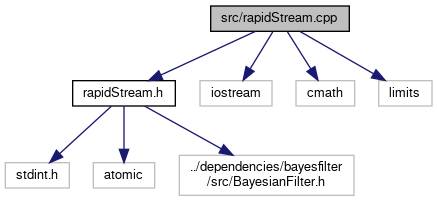
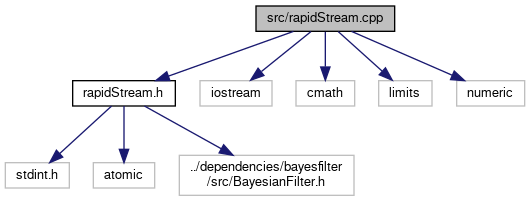
deploy: 6c8deb8d3dfbfbcd0ec96fbf341db7a697e9434a

diff --git a/doxygen/rapid_stream_8h_source.html b/doxygen/rapid_stream_8h_source.html
@@ -156,7 +156,7 @@ $(document).ready(function(){initNavTree('rapid_stream_8h_source.html',''); init
 <div class="line"><a name="l00117"></a><span class="lineno">  117</span>&#160;    <span class="keyword">private</span>:</div>
 <div class="line"><a name="l00118"></a><span class="lineno">  118</span>&#160;        std::size_t windowSize;</div>
 <div class="line"><a name="l00119"></a><span class="lineno">  119</span>&#160;        std::atomic&lt;uint32_t&gt; windowIndex;</div>
-<div class="line"><a name="l00120"></a><span class="lineno">  120</span>&#160;        T* circularWindow;</div>
+<div class="line"><a name="l00120"></a><span class="lineno">  120</span>&#160;        std::vector&lt;T&gt; circularWindow;</div>
 <div class="line"><a name="l00121"></a><span class="lineno">  121</span>&#160; </div>
 <div class="line"><a name="l00122"></a><span class="lineno">  122</span>&#160;        <span class="keyword">inline</span> T calcCurrentVel(std::size_t i) <span class="keyword">const</span>;</div>
 <div class="line"><a name="l00123"></a><span class="lineno">  123</span>&#160; </div>
@@ -166,27 +166,27 @@ $(document).ready(function(){initNavTree('rapid_stream_8h_source.html',''); init
 <div class="line"><a name="l00127"></a><span class="lineno">  127</span>&#160; </div>
 <div class="line"><a name="l00128"></a><span class="lineno">  128</span>&#160;<span class="preprocessor">#endif</span></div>
 <div class="ttc" id="aclassrapid_lib_1_1rapid_stream_html"><div class="ttname"><a href="classrapid_lib_1_1rapid_stream.html">rapidLib::rapidStream</a></div><div class="ttdef"><b>Definition:</b> rapidStream.h:19</div></div>
-<div class="ttc" id="aclassrapid_lib_1_1rapid_stream_html_a1314fcf8a2d951f53f24228c11bf20cc"><div class="ttname"><a href="classrapid_lib_1_1rapid_stream.html#a1314fcf8a2d951f53f24228c11bf20cc">rapidLib::rapidStream::bayesSetMVC</a></div><div class="ttdeci">void bayesSetMVC(float mvc)</div><div class="ttdef"><b>Definition:</b> rapidStream.cpp:187</div></div>
-<div class="ttc" id="aclassrapid_lib_1_1rapid_stream_html_a168d36a6be751bbea0ab04654cbf4a17"><div class="ttname"><a href="classrapid_lib_1_1rapid_stream.html#a168d36a6be751bbea0ab04654cbf4a17">rapidLib::rapidStream::standardDeviation</a></div><div class="ttdeci">T standardDeviation() const</div><div class="ttdef"><b>Definition:</b> rapidStream.cpp:148</div></div>
-<div class="ttc" id="aclassrapid_lib_1_1rapid_stream_html_a1afdf21bc14ea95992fff5fe42046099"><div class="ttname"><a href="classrapid_lib_1_1rapid_stream.html#a1afdf21bc14ea95992fff5fe42046099">rapidLib::rapidStream::maxVelocity</a></div><div class="ttdeci">T maxVelocity() const</div><div class="ttdef"><b>Definition:</b> rapidStream.cpp:206</div></div>
-<div class="ttc" id="aclassrapid_lib_1_1rapid_stream_html_a49cc904266a17c8a37105ed2421f0c25"><div class="ttname"><a href="classrapid_lib_1_1rapid_stream.html#a49cc904266a17c8a37105ed2421f0c25">rapidLib::rapidStream::maximum</a></div><div class="ttdeci">T maximum() const</div><div class="ttdef"><b>Definition:</b> rapidStream.cpp:93</div></div>
-<div class="ttc" id="aclassrapid_lib_1_1rapid_stream_html_a4a3b349dfe6860025bf9aae72668d1bd"><div class="ttname"><a href="classrapid_lib_1_1rapid_stream.html#a4a3b349dfe6860025bf9aae72668d1bd">rapidLib::rapidStream::minimum</a></div><div class="ttdeci">T minimum() const</div><div class="ttdef"><b>Definition:</b> rapidStream.cpp:82</div></div>
-<div class="ttc" id="aclassrapid_lib_1_1rapid_stream_html_a5a69135cbea2fb81dd5d695874b266f1"><div class="ttname"><a href="classrapid_lib_1_1rapid_stream.html#a5a69135cbea2fb81dd5d695874b266f1">rapidLib::rapidStream::clear</a></div><div class="ttdeci">void clear()</div><div class="ttdef"><b>Definition:</b> rapidStream.cpp:52</div></div>
-<div class="ttc" id="aclassrapid_lib_1_1rapid_stream_html_a5d82289a80e6081ca7c92ce718ca5d15"><div class="ttname"><a href="classrapid_lib_1_1rapid_stream.html#a5d82289a80e6081ca7c92ce718ca5d15">rapidLib::rapidStream::rms</a></div><div class="ttdeci">T rms() const</div><div class="ttdef"><b>Definition:</b> rapidStream.cpp:158</div></div>
-<div class="ttc" id="aclassrapid_lib_1_1rapid_stream_html_a5e3cb4ab7bfc6569a303eeaf784fff83"><div class="ttname"><a href="classrapid_lib_1_1rapid_stream.html#a5e3cb4ab7bfc6569a303eeaf784fff83">rapidLib::rapidStream::numZeroCrossings</a></div><div class="ttdeci">uint32_t numZeroCrossings() const</div><div class="ttdef"><b>Definition:</b> rapidStream.cpp:104</div></div>
-<div class="ttc" id="aclassrapid_lib_1_1rapid_stream_html_a60ef4b2f5d8201a282c2b01ab429a900"><div class="ttname"><a href="classrapid_lib_1_1rapid_stream.html#a60ef4b2f5d8201a282c2b01ab429a900">rapidLib::rapidStream::bayesSetJumpRate</a></div><div class="ttdeci">void bayesSetJumpRate(float jump_rate)</div><div class="ttdef"><b>Definition:</b> rapidStream.cpp:181</div></div>
-<div class="ttc" id="aclassrapid_lib_1_1rapid_stream_html_a6283a06463ff72ce29425b1f8c365526"><div class="ttname"><a href="classrapid_lib_1_1rapid_stream.html#a6283a06463ff72ce29425b1f8c365526">rapidLib::rapidStream::sum</a></div><div class="ttdeci">T sum() const</div><div class="ttdef"><b>Definition:</b> rapidStream.cpp:134</div></div>
-<div class="ttc" id="aclassrapid_lib_1_1rapid_stream_html_a6546c143d98f324f8816510bc6001b33"><div class="ttname"><a href="classrapid_lib_1_1rapid_stream.html#a6546c143d98f324f8816510bc6001b33">rapidLib::rapidStream::maxAcceleration</a></div><div class="ttdeci">T maxAcceleration() const</div><div class="ttdef"><b>Definition:</b> rapidStream.cpp:233</div></div>
-<div class="ttc" id="aclassrapid_lib_1_1rapid_stream_html_a7a1506141baaae7dd61dae53785f0a61"><div class="ttname"><a href="classrapid_lib_1_1rapid_stream.html#a7a1506141baaae7dd61dae53785f0a61">rapidLib::rapidStream::bayesSetDiffusion</a></div><div class="ttdeci">void bayesSetDiffusion(float logDiffusion)</div><div class="ttdef"><b>Definition:</b> rapidStream.cpp:175</div></div>
-<div class="ttc" id="aclassrapid_lib_1_1rapid_stream_html_a7d445fe9ee7cc5c2abda65bf6f7583ff"><div class="ttname"><a href="classrapid_lib_1_1rapid_stream.html#a7d445fe9ee7cc5c2abda65bf6f7583ff">rapidLib::rapidStream::~rapidStream</a></div><div class="ttdeci">~rapidStream()</div><div class="ttdef"><b>Definition:</b> rapidStream.cpp:47</div></div>
-<div class="ttc" id="aclassrapid_lib_1_1rapid_stream_html_a9b344d0abd0075c9735d0777ebe8d42b"><div class="ttname"><a href="classrapid_lib_1_1rapid_stream.html#a9b344d0abd0075c9735d0777ebe8d42b">rapidLib::rapidStream::acceleration</a></div><div class="ttdeci">T acceleration() const</div><div class="ttdef"><b>Definition:</b> rapidStream.cpp:77</div></div>
-<div class="ttc" id="aclassrapid_lib_1_1rapid_stream_html_aa126e5d89852f164ee5f0fd4a6027be2"><div class="ttname"><a href="classrapid_lib_1_1rapid_stream.html#aa126e5d89852f164ee5f0fd4a6027be2">rapidLib::rapidStream::pushToWindow</a></div><div class="ttdeci">void pushToWindow(T input)</div><div class="ttdef"><b>Definition:</b> rapidStream.cpp:61</div></div>
-<div class="ttc" id="aclassrapid_lib_1_1rapid_stream_html_aac51aa472f26c84eeb98ac20198ef572"><div class="ttname"><a href="classrapid_lib_1_1rapid_stream.html#aac51aa472f26c84eeb98ac20198ef572">rapidLib::rapidStream::rapidStream</a></div><div class="ttdeci">rapidStream()</div><div class="ttdef"><b>Definition:</b> rapidStream.cpp:37</div></div>
-<div class="ttc" id="aclassrapid_lib_1_1rapid_stream_html_ace43b2cc522349755ef1bb27a3961a74"><div class="ttname"><a href="classrapid_lib_1_1rapid_stream.html#ace43b2cc522349755ef1bb27a3961a74">rapidLib::rapidStream::bayesFilter</a></div><div class="ttdeci">T bayesFilter(T inputValue)</div><div class="ttdef"><b>Definition:</b> rapidStream.cpp:168</div></div>
-<div class="ttc" id="aclassrapid_lib_1_1rapid_stream_html_aea5b18e7e240890040e3c24d9763bb25"><div class="ttname"><a href="classrapid_lib_1_1rapid_stream.html#aea5b18e7e240890040e3c24d9763bb25">rapidLib::rapidStream::mean</a></div><div class="ttdeci">T mean() const</div><div class="ttdef"><b>Definition:</b> rapidStream.cpp:143</div></div>
-<div class="ttc" id="aclassrapid_lib_1_1rapid_stream_html_af6ae8f4dd5eb284600c54888375ac3dc"><div class="ttname"><a href="classrapid_lib_1_1rapid_stream.html#af6ae8f4dd5eb284600c54888375ac3dc">rapidLib::rapidStream::minVelocity</a></div><div class="ttdeci">T minVelocity() const</div><div class="ttdef"><b>Definition:</b> rapidStream.cpp:194</div></div>
-<div class="ttc" id="aclassrapid_lib_1_1rapid_stream_html_af8679f45a78f8e3e28327bd9c5a322f8"><div class="ttname"><a href="classrapid_lib_1_1rapid_stream.html#af8679f45a78f8e3e28327bd9c5a322f8">rapidLib::rapidStream::velocity</a></div><div class="ttdeci">T velocity() const</div><div class="ttdef"><b>Definition:</b> rapidStream.cpp:72</div></div>
-<div class="ttc" id="aclassrapid_lib_1_1rapid_stream_html_affb8a86b5279b739cdef892f20fe52fa"><div class="ttname"><a href="classrapid_lib_1_1rapid_stream.html#affb8a86b5279b739cdef892f20fe52fa">rapidLib::rapidStream::minAcceleration</a></div><div class="ttdeci">T minAcceleration() const</div><div class="ttdef"><b>Definition:</b> rapidStream.cpp:218</div></div>
+<div class="ttc" id="aclassrapid_lib_1_1rapid_stream_html_a1314fcf8a2d951f53f24228c11bf20cc"><div class="ttname"><a href="classrapid_lib_1_1rapid_stream.html#a1314fcf8a2d951f53f24228c11bf20cc">rapidLib::rapidStream::bayesSetMVC</a></div><div class="ttdeci">void bayesSetMVC(float mvc)</div><div class="ttdef"><b>Definition:</b> rapidStream.cpp:198</div></div>
+<div class="ttc" id="aclassrapid_lib_1_1rapid_stream_html_a168d36a6be751bbea0ab04654cbf4a17"><div class="ttname"><a href="classrapid_lib_1_1rapid_stream.html#a168d36a6be751bbea0ab04654cbf4a17">rapidLib::rapidStream::standardDeviation</a></div><div class="ttdeci">T standardDeviation() const</div><div class="ttdef"><b>Definition:</b> rapidStream.cpp:152</div></div>
+<div class="ttc" id="aclassrapid_lib_1_1rapid_stream_html_a1afdf21bc14ea95992fff5fe42046099"><div class="ttname"><a href="classrapid_lib_1_1rapid_stream.html#a1afdf21bc14ea95992fff5fe42046099">rapidLib::rapidStream::maxVelocity</a></div><div class="ttdeci">T maxVelocity() const</div><div class="ttdef"><b>Definition:</b> rapidStream.cpp:219</div></div>
+<div class="ttc" id="aclassrapid_lib_1_1rapid_stream_html_a49cc904266a17c8a37105ed2421f0c25"><div class="ttname"><a href="classrapid_lib_1_1rapid_stream.html#a49cc904266a17c8a37105ed2421f0c25">rapidLib::rapidStream::maximum</a></div><div class="ttdeci">T maximum() const</div><div class="ttdef"><b>Definition:</b> rapidStream.cpp:96</div></div>
+<div class="ttc" id="aclassrapid_lib_1_1rapid_stream_html_a4a3b349dfe6860025bf9aae72668d1bd"><div class="ttname"><a href="classrapid_lib_1_1rapid_stream.html#a4a3b349dfe6860025bf9aae72668d1bd">rapidLib::rapidStream::minimum</a></div><div class="ttdeci">T minimum() const</div><div class="ttdef"><b>Definition:</b> rapidStream.cpp:90</div></div>
+<div class="ttc" id="aclassrapid_lib_1_1rapid_stream_html_a5a69135cbea2fb81dd5d695874b266f1"><div class="ttname"><a href="classrapid_lib_1_1rapid_stream.html#a5a69135cbea2fb81dd5d695874b266f1">rapidLib::rapidStream::clear</a></div><div class="ttdeci">void clear()</div><div class="ttdef"><b>Definition:</b> rapidStream.cpp:57</div></div>
+<div class="ttc" id="aclassrapid_lib_1_1rapid_stream_html_a5d82289a80e6081ca7c92ce718ca5d15"><div class="ttname"><a href="classrapid_lib_1_1rapid_stream.html#a5d82289a80e6081ca7c92ce718ca5d15">rapidLib::rapidStream::rms</a></div><div class="ttdeci">T rms() const</div><div class="ttdef"><b>Definition:</b> rapidStream.cpp:164</div></div>
+<div class="ttc" id="aclassrapid_lib_1_1rapid_stream_html_a5e3cb4ab7bfc6569a303eeaf784fff83"><div class="ttname"><a href="classrapid_lib_1_1rapid_stream.html#a5e3cb4ab7bfc6569a303eeaf784fff83">rapidLib::rapidStream::numZeroCrossings</a></div><div class="ttdeci">uint32_t numZeroCrossings() const</div><div class="ttdef"><b>Definition:</b> rapidStream.cpp:102</div></div>
+<div class="ttc" id="aclassrapid_lib_1_1rapid_stream_html_a60ef4b2f5d8201a282c2b01ab429a900"><div class="ttname"><a href="classrapid_lib_1_1rapid_stream.html#a60ef4b2f5d8201a282c2b01ab429a900">rapidLib::rapidStream::bayesSetJumpRate</a></div><div class="ttdeci">void bayesSetJumpRate(float jump_rate)</div><div class="ttdef"><b>Definition:</b> rapidStream.cpp:191</div></div>
+<div class="ttc" id="aclassrapid_lib_1_1rapid_stream_html_a6283a06463ff72ce29425b1f8c365526"><div class="ttname"><a href="classrapid_lib_1_1rapid_stream.html#a6283a06463ff72ce29425b1f8c365526">rapidLib::rapidStream::sum</a></div><div class="ttdeci">T sum() const</div><div class="ttdef"><b>Definition:</b> rapidStream.cpp:140</div></div>
+<div class="ttc" id="aclassrapid_lib_1_1rapid_stream_html_a6546c143d98f324f8816510bc6001b33"><div class="ttname"><a href="classrapid_lib_1_1rapid_stream.html#a6546c143d98f324f8816510bc6001b33">rapidLib::rapidStream::maxAcceleration</a></div><div class="ttdeci">T maxAcceleration() const</div><div class="ttdef"><b>Definition:</b> rapidStream.cpp:252</div></div>
+<div class="ttc" id="aclassrapid_lib_1_1rapid_stream_html_a7a1506141baaae7dd61dae53785f0a61"><div class="ttname"><a href="classrapid_lib_1_1rapid_stream.html#a7a1506141baaae7dd61dae53785f0a61">rapidLib::rapidStream::bayesSetDiffusion</a></div><div class="ttdeci">void bayesSetDiffusion(float logDiffusion)</div><div class="ttdef"><b>Definition:</b> rapidStream.cpp:184</div></div>
+<div class="ttc" id="aclassrapid_lib_1_1rapid_stream_html_a7d445fe9ee7cc5c2abda65bf6f7583ff"><div class="ttname"><a href="classrapid_lib_1_1rapid_stream.html#a7d445fe9ee7cc5c2abda65bf6f7583ff">rapidLib::rapidStream::~rapidStream</a></div><div class="ttdeci">~rapidStream()</div><div class="ttdef"><b>Definition:</b> rapidStream.cpp:51</div></div>
+<div class="ttc" id="aclassrapid_lib_1_1rapid_stream_html_a9b344d0abd0075c9735d0777ebe8d42b"><div class="ttname"><a href="classrapid_lib_1_1rapid_stream.html#a9b344d0abd0075c9735d0777ebe8d42b">rapidLib::rapidStream::acceleration</a></div><div class="ttdeci">T acceleration() const</div><div class="ttdef"><b>Definition:</b> rapidStream.cpp:84</div></div>
+<div class="ttc" id="aclassrapid_lib_1_1rapid_stream_html_aa126e5d89852f164ee5f0fd4a6027be2"><div class="ttname"><a href="classrapid_lib_1_1rapid_stream.html#aa126e5d89852f164ee5f0fd4a6027be2">rapidLib::rapidStream::pushToWindow</a></div><div class="ttdeci">void pushToWindow(T input)</div><div class="ttdef"><b>Definition:</b> rapidStream.cpp:65</div></div>
+<div class="ttc" id="aclassrapid_lib_1_1rapid_stream_html_aac51aa472f26c84eeb98ac20198ef572"><div class="ttname"><a href="classrapid_lib_1_1rapid_stream.html#aac51aa472f26c84eeb98ac20198ef572">rapidLib::rapidStream::rapidStream</a></div><div class="ttdeci">rapidStream()</div><div class="ttdef"><b>Definition:</b> rapidStream.cpp:36</div></div>
+<div class="ttc" id="aclassrapid_lib_1_1rapid_stream_html_ace43b2cc522349755ef1bb27a3961a74"><div class="ttname"><a href="classrapid_lib_1_1rapid_stream.html#ace43b2cc522349755ef1bb27a3961a74">rapidLib::rapidStream::bayesFilter</a></div><div class="ttdeci">T bayesFilter(T inputValue)</div><div class="ttdef"><b>Definition:</b> rapidStream.cpp:176</div></div>
+<div class="ttc" id="aclassrapid_lib_1_1rapid_stream_html_aea5b18e7e240890040e3c24d9763bb25"><div class="ttname"><a href="classrapid_lib_1_1rapid_stream.html#aea5b18e7e240890040e3c24d9763bb25">rapidLib::rapidStream::mean</a></div><div class="ttdeci">T mean() const</div><div class="ttdef"><b>Definition:</b> rapidStream.cpp:146</div></div>
+<div class="ttc" id="aclassrapid_lib_1_1rapid_stream_html_af6ae8f4dd5eb284600c54888375ac3dc"><div class="ttname"><a href="classrapid_lib_1_1rapid_stream.html#af6ae8f4dd5eb284600c54888375ac3dc">rapidLib::rapidStream::minVelocity</a></div><div class="ttdeci">T minVelocity() const</div><div class="ttdef"><b>Definition:</b> rapidStream.cpp:205</div></div>
+<div class="ttc" id="aclassrapid_lib_1_1rapid_stream_html_af8679f45a78f8e3e28327bd9c5a322f8"><div class="ttname"><a href="classrapid_lib_1_1rapid_stream.html#af8679f45a78f8e3e28327bd9c5a322f8">rapidLib::rapidStream::velocity</a></div><div class="ttdeci">T velocity() const</div><div class="ttdef"><b>Definition:</b> rapidStream.cpp:78</div></div>
+<div class="ttc" id="aclassrapid_lib_1_1rapid_stream_html_affb8a86b5279b739cdef892f20fe52fa"><div class="ttname"><a href="classrapid_lib_1_1rapid_stream.html#affb8a86b5279b739cdef892f20fe52fa">rapidLib::rapidStream::minAcceleration</a></div><div class="ttdeci">T minAcceleration() const</div><div class="ttdef"><b>Definition:</b> rapidStream.cpp:234</div></div>
 <div class="ttc" id="anamespacerapid_lib_html"><div class="ttname"><a href="namespacerapid_lib.html">rapidLib</a></div><div class="ttdef"><b>Definition:</b> classification.h:75</div></div>
 </div><!-- fragment --></div><!-- contents -->
 </div><!-- doc-content -->

diff --git a/doxygen/series_classification_8h_source.html b/doxygen/series_classification_8h_source.html
@@ -176,16 +176,16 @@ $(document).ready(function(){initNavTree('series_classification_8h_source.html',
 <div class="line"><a name="l00143"></a><span class="lineno">  143</span>&#160; </div>
 <div class="line"><a name="l00144"></a><span class="lineno">  144</span>&#160;<span class="preprocessor">#endif</span></div>
 <div class="ttc" id="aclassseries_classification_template_html"><div class="ttname"><a href="classseries_classification_template.html">seriesClassificationTemplate</a></div><div class="ttdef"><b>Definition:</b> seriesClassification.h:26</div></div>
-<div class="ttc" id="aclassseries_classification_template_html_a0631618c7d29eeca05605b98c3146186"><div class="ttname"><a href="classseries_classification_template.html#a0631618c7d29eeca05605b98c3146186">seriesClassificationTemplate::reset</a></div><div class="ttdeci">void reset()</div><div class="ttdef"><b>Definition:</b> seriesClassification.cpp:87</div></div>
-<div class="ttc" id="aclassseries_classification_template_html_a0f9e18492bafea355323034ed576997a"><div class="ttname"><a href="classseries_classification_template.html#a0f9e18492bafea355323034ed576997a">seriesClassificationTemplate::getCosts</a></div><div class="ttdeci">std::vector&lt; T &gt; getCosts() const</div><div class="ttdef"><b>Definition:</b> seriesClassification.cpp:257</div></div>
-<div class="ttc" id="aclassseries_classification_template_html_a1f71481efb2d8b92c7be77dede0a43ac"><div class="ttname"><a href="classseries_classification_template.html#a1f71481efb2d8b92c7be77dede0a43ac">seriesClassificationTemplate::calculateCosts</a></div><div class="ttdeci">minMax&lt; T &gt; calculateCosts(std::string label) const</div><div class="ttdef"><b>Definition:</b> seriesClassification.cpp:293</div></div>
-<div class="ttc" id="aclassseries_classification_template_html_a72c1f59013389e65c5000b8b9b350da5"><div class="ttname"><a href="classseries_classification_template.html#a72c1f59013389e65c5000b8b9b350da5">seriesClassificationTemplate::runContinuous</a></div><div class="ttdeci">std::string runContinuous(const std::vector&lt; T &gt; &amp;inputVector)</div><div class="ttdef"><b>Definition:</b> seriesClassification.cpp:238</div></div>
-<div class="ttc" id="aclassseries_classification_template_html_a9b2ff83c8df21d3091fff1d3d09e7a98"><div class="ttname"><a href="classseries_classification_template.html#a9b2ff83c8df21d3091fff1d3d09e7a98">seriesClassificationTemplate::runParallel</a></div><div class="ttdeci">std::string runParallel(const std::vector&lt; std::vector&lt; T &gt; &gt; &amp;inputSeries)</div><div class="ttdef"><b>Definition:</b> seriesClassification.cpp:157</div></div>
-<div class="ttc" id="aclassseries_classification_template_html_a9c85e2d96a2b1744273d0685f919bd11"><div class="ttname"><a href="classseries_classification_template.html#a9c85e2d96a2b1744273d0685f919bd11">seriesClassificationTemplate::getMaxLength</a></div><div class="ttdeci">std::size_t getMaxLength() const</div><div class="ttdef"><b>Definition:</b> seriesClassification.cpp:278</div></div>
+<div class="ttc" id="aclassseries_classification_template_html_a0631618c7d29eeca05605b98c3146186"><div class="ttname"><a href="classseries_classification_template.html#a0631618c7d29eeca05605b98c3146186">seriesClassificationTemplate::reset</a></div><div class="ttdeci">void reset()</div><div class="ttdef"><b>Definition:</b> seriesClassification.cpp:86</div></div>
+<div class="ttc" id="aclassseries_classification_template_html_a0f9e18492bafea355323034ed576997a"><div class="ttname"><a href="classseries_classification_template.html#a0f9e18492bafea355323034ed576997a">seriesClassificationTemplate::getCosts</a></div><div class="ttdeci">std::vector&lt; T &gt; getCosts() const</div><div class="ttdef"><b>Definition:</b> seriesClassification.cpp:247</div></div>
+<div class="ttc" id="aclassseries_classification_template_html_a1f71481efb2d8b92c7be77dede0a43ac"><div class="ttname"><a href="classseries_classification_template.html#a1f71481efb2d8b92c7be77dede0a43ac">seriesClassificationTemplate::calculateCosts</a></div><div class="ttdeci">minMax&lt; T &gt; calculateCosts(std::string label) const</div><div class="ttdef"><b>Definition:</b> seriesClassification.cpp:283</div></div>
+<div class="ttc" id="aclassseries_classification_template_html_a72c1f59013389e65c5000b8b9b350da5"><div class="ttname"><a href="classseries_classification_template.html#a72c1f59013389e65c5000b8b9b350da5">seriesClassificationTemplate::runContinuous</a></div><div class="ttdeci">std::string runContinuous(const std::vector&lt; T &gt; &amp;inputVector)</div><div class="ttdef"><b>Definition:</b> seriesClassification.cpp:228</div></div>
+<div class="ttc" id="aclassseries_classification_template_html_a9b2ff83c8df21d3091fff1d3d09e7a98"><div class="ttname"><a href="classseries_classification_template.html#a9b2ff83c8df21d3091fff1d3d09e7a98">seriesClassificationTemplate::runParallel</a></div><div class="ttdeci">std::string runParallel(const std::vector&lt; std::vector&lt; T &gt; &gt; &amp;inputSeries)</div><div class="ttdef"><b>Definition:</b> seriesClassification.cpp:156</div></div>
+<div class="ttc" id="aclassseries_classification_template_html_a9c85e2d96a2b1744273d0685f919bd11"><div class="ttname"><a href="classseries_classification_template.html#a9c85e2d96a2b1744273d0685f919bd11">seriesClassificationTemplate::getMaxLength</a></div><div class="ttdeci">std::size_t getMaxLength() const</div><div class="ttdef"><b>Definition:</b> seriesClassification.cpp:268</div></div>
 <div class="ttc" id="aclassseries_classification_template_html_ab2600f1c49d2d7a81ec36312670e3aeb"><div class="ttname"><a href="classseries_classification_template.html#ab2600f1c49d2d7a81ec36312670e3aeb">seriesClassificationTemplate::seriesClassificationTemplate</a></div><div class="ttdeci">seriesClassificationTemplate()</div><div class="ttdef"><b>Definition:</b> seriesClassification.cpp:23</div></div>
 <div class="ttc" id="aclassseries_classification_template_html_ac3d6dfe244f007a042f12e83f6d9b434"><div class="ttname"><a href="classseries_classification_template.html#ac3d6dfe244f007a042f12e83f6d9b434">seriesClassificationTemplate::~seriesClassificationTemplate</a></div><div class="ttdeci">~seriesClassificationTemplate()</div><div class="ttdef"><b>Definition:</b> seriesClassification.cpp:26</div></div>
 <div class="ttc" id="aclassseries_classification_template_html_ad8f5aa1c36fa8077ec6b9a25f7670fc8"><div class="ttname"><a href="classseries_classification_template.html#ad8f5aa1c36fa8077ec6b9a25f7670fc8">seriesClassificationTemplate::run</a></div><div class="ttdeci">std::string run(const std::vector&lt; std::vector&lt; T &gt; &gt; &amp;inputSeries)</div></div>
-<div class="ttc" id="aclassseries_classification_template_html_ae4001b002a50bf2b1b4a48a5d7b89af9"><div class="ttname"><a href="classseries_classification_template.html#ae4001b002a50bf2b1b4a48a5d7b89af9">seriesClassificationTemplate::getMinLength</a></div><div class="ttdeci">std::size_t getMinLength() const</div><div class="ttdef"><b>Definition:</b> seriesClassification.cpp:263</div></div>
+<div class="ttc" id="aclassseries_classification_template_html_ae4001b002a50bf2b1b4a48a5d7b89af9"><div class="ttname"><a href="classseries_classification_template.html#ae4001b002a50bf2b1b4a48a5d7b89af9">seriesClassificationTemplate::getMinLength</a></div><div class="ttdeci">std::size_t getMinLength() const</div><div class="ttdef"><b>Definition:</b> seriesClassification.cpp:253</div></div>
 <div class="ttc" id="aclassseries_classification_template_html_af9763109d14e2a8baefd491c01043cf9"><div class="ttname"><a href="classseries_classification_template.html#af9763109d14e2a8baefd491c01043cf9">seriesClassificationTemplate::train</a></div><div class="ttdeci">bool train(const std::vector&lt; trainingSeriesTemplate&lt; T &gt; &gt; &amp;seriesSet)</div><div class="ttdef"><b>Definition:</b> seriesClassification.cpp:29</div></div>
 <div class="ttc" id="afast_d_t_w_8h_html"><div class="ttname"><a href="fast_d_t_w_8h.html">fastDTW.h</a></div></div>
 <div class="ttc" id="anamespacerapid_lib_html"><div class="ttname"><a href="namespacerapid_lib.html">rapidLib</a></div><div class="ttdef"><b>Definition:</b> classification.h:75</div></div>

diff --git a/doxygen/rapid_stream_8cpp.html b/doxygen/rapid_stream_8cpp.html
@@ -104,16 +104,18 @@ $(document).ready(function(){initNavTree('rapid_stream_8cpp.html',''); initResiz
 <code>#include &lt;iostream&gt;</code><br />
 <code>#include &lt;cmath&gt;</code><br />
 <code>#include &lt;limits&gt;</code><br />
+<code>#include &lt;numeric&gt;</code><br />
 </div><div class="textblock"><div class="dynheader">
 Include dependency graph for rapidStream.cpp:</div>
 <div class="dyncontent">
 <div class="center"><img src="rapid_stream_8cpp__incl.png" border="0" usemap="#asrc_2rapid_stream_8cpp" alt=""/></div>
 <map name="asrc_2rapid_stream_8cpp" id="asrc_2rapid_stream_8cpp">
-<area shape="rect" title=" " alt="" coords="211,5,349,32"/>
+<area shape="rect" title=" " alt="" coords="256,5,395,32"/>
 <area shape="rect" href="rapid_stream_8h.html" title=" " alt="" coords="73,80,175,107"/>
 <area shape="rect" title=" " alt="" coords="200,80,272,107"/>
 <area shape="rect" title=" " alt="" coords="296,80,355,107"/>
 <area shape="rect" title=" " alt="" coords="379,80,432,107"/>
+<area shape="rect" title=" " alt="" coords="457,80,525,107"/>
 <area shape="rect" title=" " alt="" coords="5,162,69,189"/>
 <area shape="rect" title=" " alt="" coords="93,162,155,189"/>
 <area shape="rect" title=" " alt="" coords="179,155,354,196"/>
